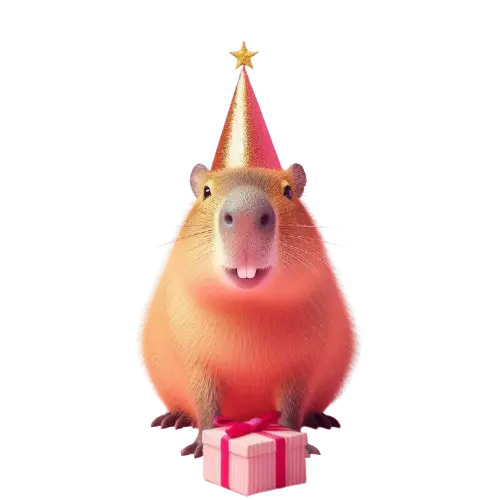
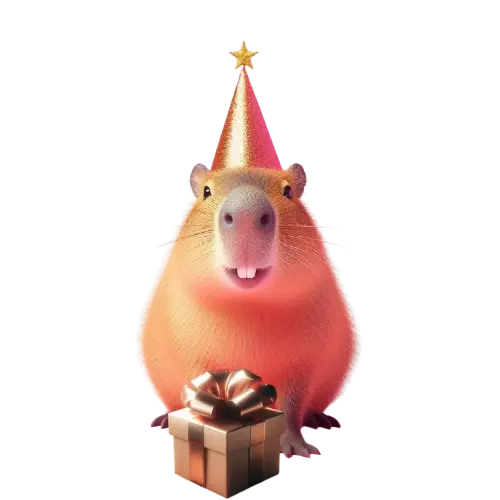
Assets

Changed region(s): [[0.33, 0.72, 0.63, 1.0]]

diff --git a/app/components/Cake.js b/app/components/Cake.js
@@ -7,7 +7,7 @@ import Image from "next/image.js";
 import mazapan from "@/assets/turin.webp";
 import mazapan1 from "@/assets/mazapan1.webp";
 import mazapan2 from "@/assets/mazapan2.webp";
-import dania from "@/assets/dania.webp";
+import dania from "@/assets/capybara.webp";
 import bg from "@/assets/bg.webp";
 import balloons from "@/assets/morebaloons.webp";
 import Vara from "vara";
